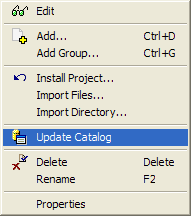
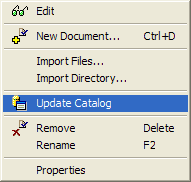
Updated the 'Cataloging an existing code base' tutorial

diff --git a/lib/jazz.website/content/tutorials.htm b/lib/jazz.website/content/tutorials.htm
@@ -293,26 +293,16 @@ Note that common tools like the Console are accessible in any workspace.       <
       <h4 class="section2">Cataloging an existing code base</h4>
 For this tutorial we will catalog the Gambit library.       <span>
         <p></p>
-        <b>Workbench</b>
+        <b>Project</b>
         <p></p>
-First we need to add a project to the workbench for Gambit.         <p></p>
+First we need a new project for Gambit.         <p></p>
         <img src="images/tutorials/catalog_project.png"/>
         <span>
           <p></p>
-          <b>Add Project</b>
+          <b>New Project</b>
           <p></p>
-Note that a project is actually a full-fledged class. This gives projects alot of runtime flexibility but places some constraints on project names. Lets call the project: "Gambit-Project".           <p></p>
+Note that a project is actually a full-fledged class. This gives projects alot of runtime flexibility but places some constraints on project names. Lets call the project: "gambit".           <p></p>
           <img src="images/tutorials/catalog_add.png"/>
-        </span>
-        <span>
-          <p></p>
-          <b>Properties</b>
-          <p></p>
-Right-click on the project's icon and select "Properties".           <p></p>
-          <img src="images/tutorials/catalog_properties_menu.png"/>
-          <p></p>
-Then, click the "Title" property to edit it. We'll give the project a nicer title, simply "gambit".           <p></p>
-          <img src="images/tutorials/catalog_properties.png"/>
         </span>
         <span>
           <p></p>
@@ -340,9 +330,10 @@ With your newly built catalog, edit the Gambit code implementing the           <
 . Notice how Jedi was able to complete the symbol now that it knows about every Gambit definition.           <p></p>
           <img src="images/tutorials/catalog_complete.png"/>
           <p></p>
-Now press alt-period or F12. This should edit           <code>create-symbolic-link</code>
-'s definition. Pressing control-alt-period or shift-F12 would have displayed a list of every definition referencing the           <code>create-symbolic-link</code>
- symbol.         </span>
+Now press "alt-period" or "F12". This should edit           <code>create-symbolic-link</code>
+'s definition.           <p></p>
+Pressing "control-alt-period" or "shift-F12" displays a list of every definition referencing the current symbol. Try it on           <code>##path&#8209;expand</code>
+ for fun.         </span>
       </span>
     </div>
     <div>

diff --git a/lib/jazz.website/content/jazz.htm b/lib/jazz.website/content/jazz.htm
@@ -2711,14 +2711,14 @@ message-box    <a name="c-interface"></a>
       <tr>
         <td></td>
         <td>
-<a href="#sequences-iteration">
+<a href="#sequences">
             <code>Sequences</code>
           </a></td>
       </tr>
       <tr>
         <td></td>
         <td>
-<a href="#sequences">
+<a href="#sequences-iteration">
             <code>Sequences</code>
           </a></td>
       </tr>
